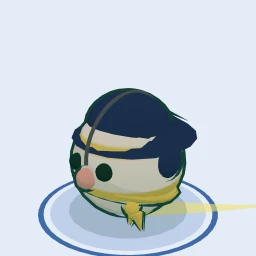
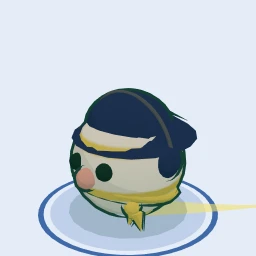
fix(gnomes): earmuffs band running front to back

Changed region(s): [[0.4062, 0.3438, 0.625, 0.4688], [0.3125, 0.4375, 0.4062, 0.6562], [0.625, 0.4688, 0.6875, 0.5938]]

diff --git a/web/test/gnome.test.ts b/web/test/gnome.test.ts
@@ -15,6 +15,7 @@ import "../lib/scene/gnome-wardrobe.ts";
 import { BUDGET, MAX_REACH } from "../lib/gnomes/validate.ts";
 import type { Catalogue } from "../lib/gnomes/catalogue.ts";
 import { costOf } from "../lib/scene/gnome-cost.ts";
+import { kitPiece } from "../lib/scene/gnome-kit.ts";
 
 /** Every drawn thing under a gnome, in order: its kind, geometry and material, rounded. */
 export function fingerprint(o: THREE.Object3D) {
@@ -123,6 +124,17 @@ test("a metal gnome's parts merge into one draw, so none may glow in another's c
   };
   for (const e of catalogue.gnomes.filter((g) => g.skin.material === "metal" && g.skin.body !== undefined && g.skin.body !== g.skin.hat))
     assert.deepEqual(glows({ ...e.skin, hat: e.skin.body!, body: e.skin.hat }), glows(e.skin), `#${e.id} ${e.name}`);
+});
+
+test("earmuffs: a muff on each ear, the band over the head from one to the other (not front to back)", () => {
+  const g = new THREE.Group(), hat = new THREE.Group();
+  kitPiece(g, hat, { ...GNOMES[0], piece: "earmuffs" });
+  g.updateMatrixWorld(true);
+  const band = g.children.find((o): o is THREE.Mesh => o instanceof THREE.Mesh && (o.geometry as THREE.BufferGeometry).type === "TorusGeometry")!;
+  const box = new THREE.Box3().setFromObject(band);
+  assert.ok(box.max.x - box.min.x > 1, `the band spans ${(box.max.x - box.min.x).toFixed(2)} across, ear to ear`);
+  assert.ok(box.max.z - box.min.z < 0.2, `and ${(box.max.z - box.min.z).toFixed(2)} front to back`);
+  assert.ok(box.max.y > 0.6, "over the top of the head");
 });
 
 test("trails and holings: every kind the collection uses is made and runs to its end", () => {

diff --git a/web/lib/scene/gnome-kit.ts b/web/lib/scene/gnome-kit.ts
@@ -265,9 +265,8 @@ export function kitPiece(g: THREE.Group, hat: THREE.Group, skin: Skin) {
         muff.scale.x = 0.55;
         g.add(muff);
       }
-      const band = at(new THREE.Mesh(new THREE.TorusGeometry(0.56, 0.025, 4, 24, Math.PI), flat(0x5c6670)), 0, 0.12, 0);
-      band.rotation.y = Q;
-      g.add(band);
+      // the band over the head from one muff to the other (a half torus stands across, in x and y, as it is made)
+      g.add(at(new THREE.Mesh(new THREE.TorusGeometry(0.56, 0.025, 4, 24, Math.PI), flat(0x5c6670)), 0, 0.12, 0));
       break;
     }
     case "satchel": {
